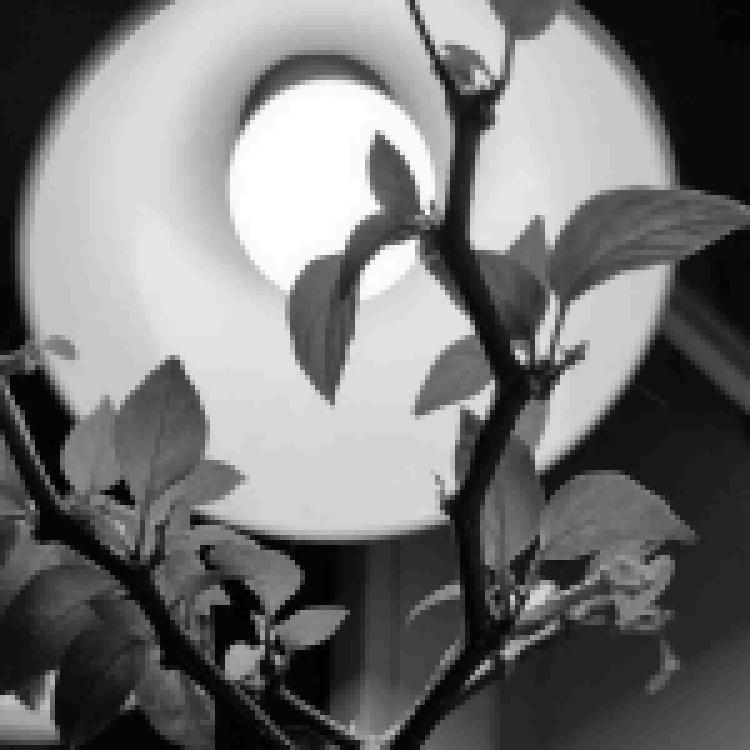
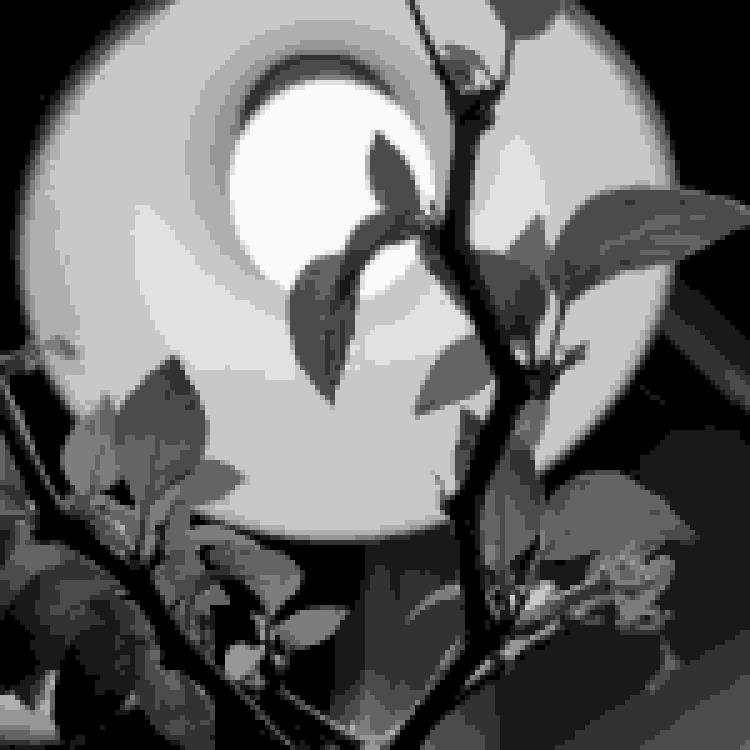
Fourth commit
Выполнен этап 4

diff --git a/filter.py b/filter.py
@@ -13,21 +13,27 @@ def set_grey_pixels(colorSum, i, j):
     arr[i:i + pxSize, j:j + pxSize, 2] = int(colorSum // gradation) * gradation
 
 
-img = Image.open("img2.jpg")
+def img2pixel(original, result):
+    global arr
+    global gradation
+    global pxSize
+    img = Image.open(original)
+    arr = np.array(img)
+    height = len(arr)
+    width = len(arr[1])
+    i = 0
 
-arr = np.array(img)
-height = len(arr)
-width = len(arr[1])
-i = 0
+    gradation = int(input('Введите градацию серого: '))
+    pxSize = int(input('Введите размер мазайки: '))
+    while i < height:
+        j = 0
+        while j < width:
+            s = get_pixel(i, j)
+            set_grey_pixels(s, i, j)
+            j = j + pxSize
+        i = i + pxSize
+    res = Image.fromarray(arr)
+    res.save(result)
 
-gradation = int(input('Введите градацию серого: '))
-pxSize = int(input('Введите размер мазайки: '))
-while i < height:
-    j = 0
-    while j < width:
-        s = get_pixel(i, j)
-        set_grey_pixels(s, i, j)
-        j = j + pxSize
-    i = i + pxSize
-res = Image.fromarray(arr)
-res.save('res.jpg')
+
+img2pixel(input("Название оригинала: "), input("Название копии: "))
